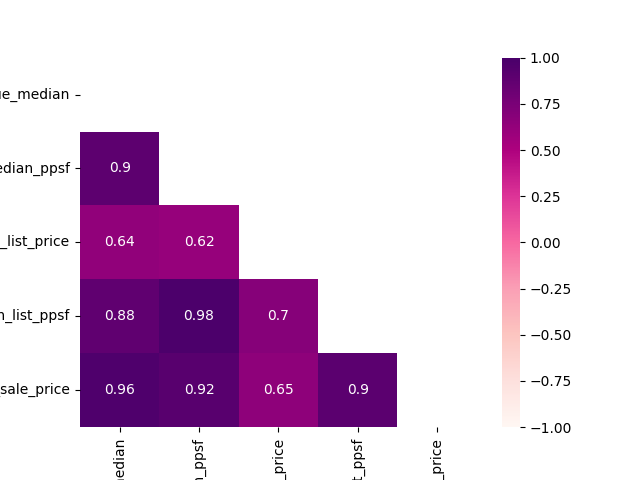
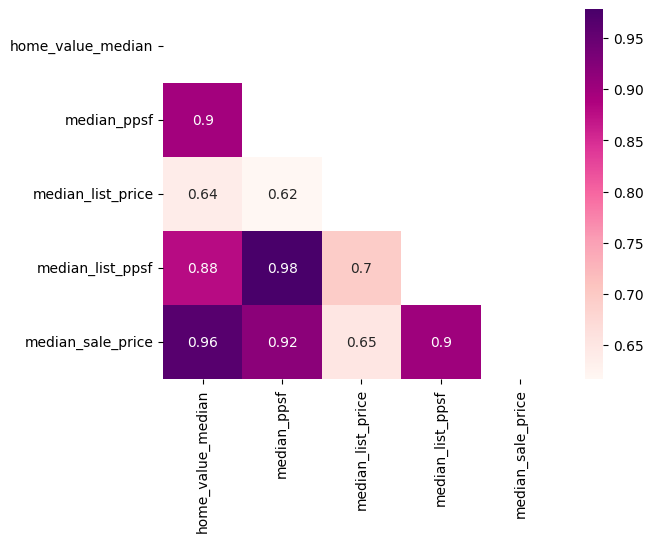
changes to tree model viz

diff --git a/models/Supervised/tree_regression.py b/models/Supervised/tree_regression.py
@@ -98,22 +98,31 @@ def tree_model():
                 color='Feature', template='plotly_dark',
                 color_discrete_sequence=px.colors.sequential.Plasma_r)
 
-    fig.write_image("../../reports/figures/Supervised/tree_model1_feature_importances.png",width=500, height=300)
+    fig.update_layout(
+                  height = 800,
+                  width = 1500,
+                  font=dict(size = 18),
+                  margin = {'t':50, 'b':50, 'l':50, 'r':50})
+
+    fig.write_image("../../reports/figures/Supervised/tree_model1_feature_importances.png")
 
     ## chart of prediction delta
 
     pred2019 = et.predict(X_val)
     data2019['Predicted_sale_price_change'] = pred2019
     data2019['Prediction_delta'] = ((data2019['median_sale_price'] - data2019['Predicted_sale_price_change'])/data2019['median_sale_price'])*100
-
+    ##TODO rename columns for viz
     fig = px.choropleth(data2019, geojson=counties, locations='county_fips', color='Prediction_delta',
                             color_continuous_scale="Viridis",
                                 range_color=(0, 100),
+                            hover_name = 'county_fips',
+                            hover_data =['Predicted_sale_price_change','median_sale_price'],
                             scope="usa",
-                            labels={'Prediction_delta':'Prediction delta for 2019 HPI'}
+                            labels={'Prediction_delta':'% Difference Predicted-Actual'},
+                            title='Prediction Delta 2019 Predicting 2020 to Actual 2020 Values'
                             )
-    fig.update_layout(margin={"r":0,"t":0,"l":0,"b":0})
-    fig.write_image("../../reports/figures/Supervised/tree_model1_prediciton_delta.png", width=500, height=300)
+
+    fig.write_image("../../reports/figures/Supervised/tree_model1_prediciton_delta.png",width=1980, height=1080)
 
     ## calculate rmse
 
@@ -127,10 +136,9 @@ def tree_model():
 
     corr_df = df[['home_value_median', 'median_ppsf', 'median_list_price', 'median_list_ppsf', 'median_sale_price']]
     mask = np.triu(np.ones_like(corr_df.corr(), dtype=np.bool))
-    sns.heatmap(corr_df.corr(), mask=mask, vmin=-1, vmax=1, annot=True, cmap='RdPu')
-    plt.savefig('../../reports/figures/Supervised/tree_model1_correlation_matrix.png', width=500, height=300)
+    sns.heatmap(corr_df.corr(), mask=mask, annot=True, cmap='RdPu')
+    plt.savefig('../../reports/figures/Supervised/tree_model1_correlation_matrix.png', width=500, height=300, bbox_inches="tight")
 
-    ##TODO alter scale/resolution of images
     ## model2 with highly correlated features removed
 
     df = df.drop(['home_value_median', 'median_list_price', 'median_ppsf', 'median_list_ppsf'], axis=1)
@@ -167,7 +175,13 @@ def tree_model():
                 color='Feature', template='plotly_dark',
                 color_discrete_sequence=px.colors.sequential.Plasma_r)
 
-    fig.write_image("../../reports/figures/Supervised/tree_model2_feature_importances.png", width=500, height=300)
+    fig.update_layout(
+                  height = 800,
+                  width = 1500,
+                  font=dict(size = 18),
+                  margin = {'t':50, 'b':50, 'l':50, 'r':50})
+
+    fig.write_image("../../reports/figures/Supervised/tree_model2_feature_importances.png")
 
     ## chart of prediction delta
 
